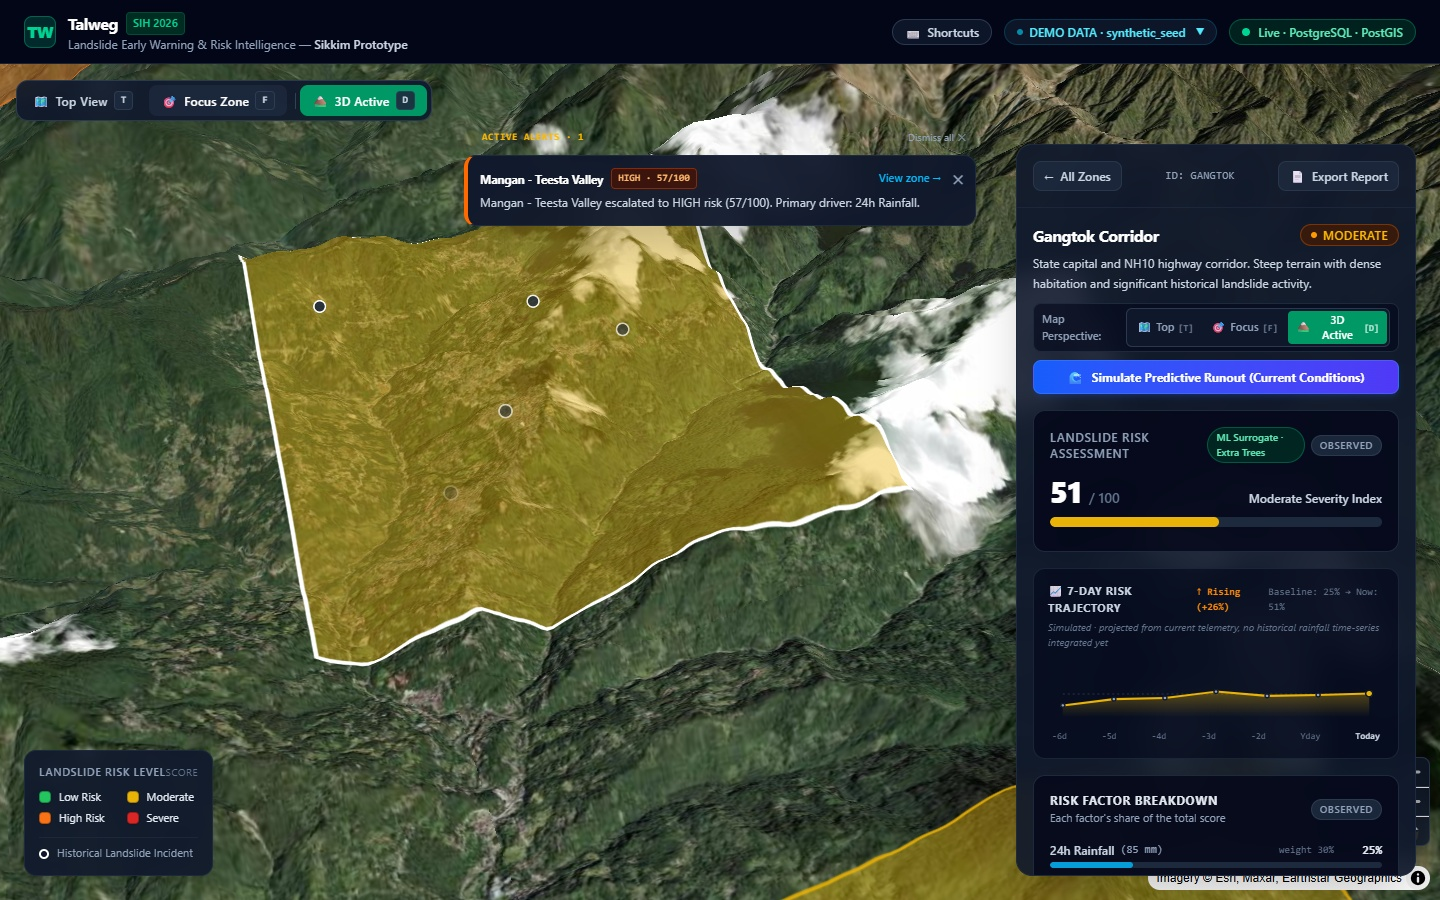
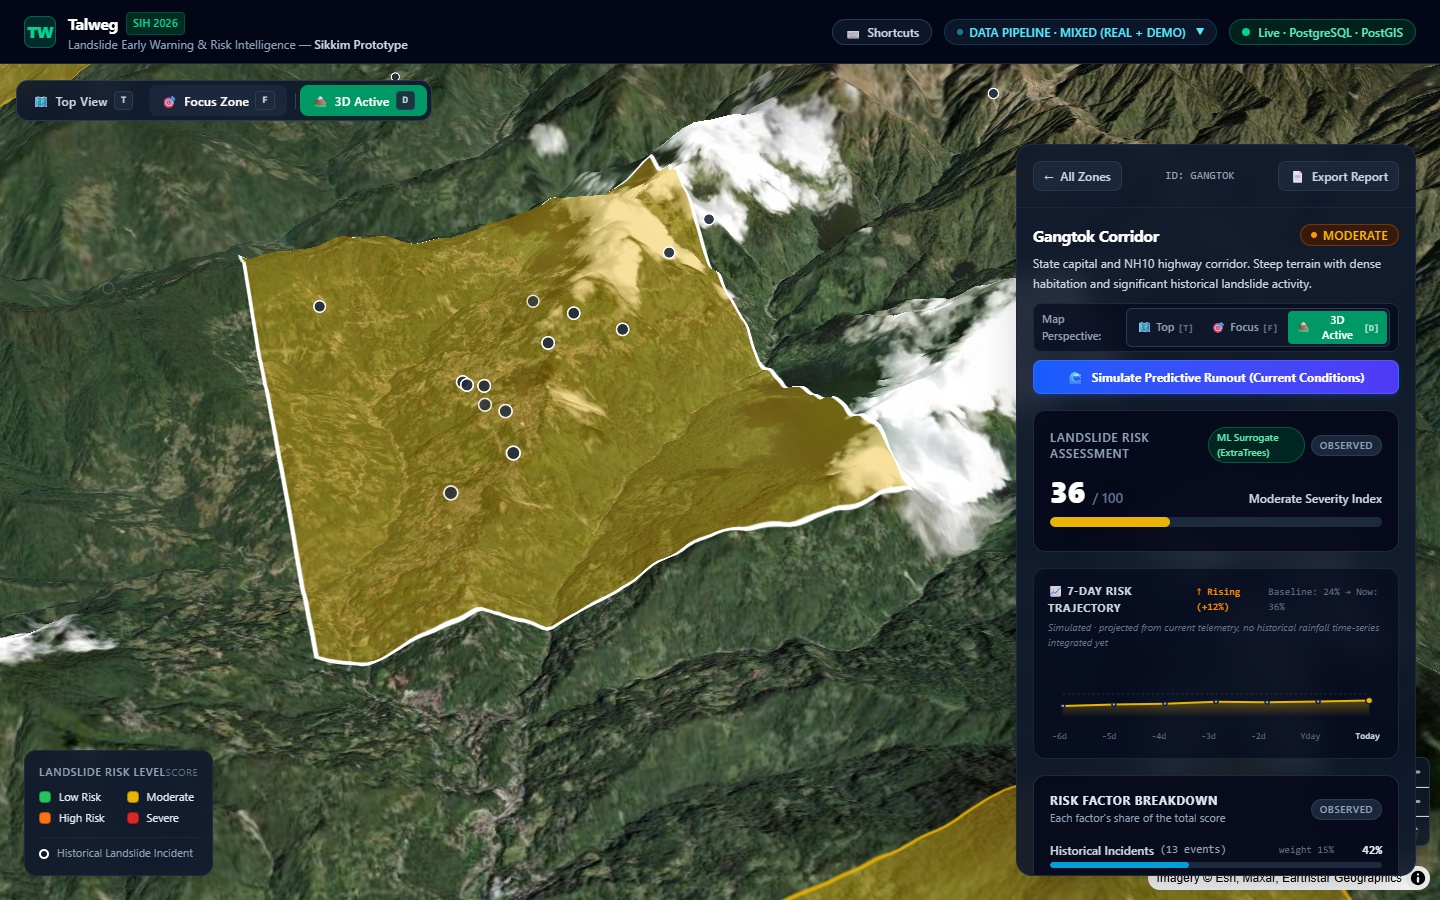
docs: update README screenshots reflecting real CHIRPS telemetry and verified event replay

diff --git a/README.md b/README.md
@@ -45,13 +45,13 @@ SIH26001 — Prototype decision-support system for landslide risk assessment in 
 
 ### 5. Explainable Risk Assessment & Factor Breakdown
 ![TALWEG Zone Telemetry & Explainability](docs/screenshots/05_zone_telemetry_explainability.jpg)
-*Transparent factor attribution breakdown (Rainfall, Soil Saturation, DEM Slope, Historical Density), 7-day risk trajectories, and dual-engine validation (Deterministic baseline vs. Extra Trees ML surrogate).*
+*Transparent factor attribution breakdown (Real CHIRPS Satellite Rainfall, Antecedent Soil Saturation, DEM Slope, Historical Density), 7-day risk trajectories, and dual-engine validation (Deterministic baseline vs. Extra Trees ML surrogate).*
 
 ---
 
 ### 6. Historical Reconstruction & Retrospective Replay
 ![TALWEG Historical Event Replay](docs/screenshots/06_historical_event_replay.png)
-*Retrospective evaluation of documented historical landslide events against the risk engine, featuring provenance-tagged input vectors (REAL / DERIVED / SYNTHETIC), escalation timelines, and decision verification ("WOULD HAVE FLAGGED: YES").*
+*Retrospective evaluation of documented historical landslide events against the risk engine, featuring provenance-tagged input vectors (REAL / DERIVED / SYNTHETIC), authentic ClimateSERV CHIRPS satellite observations, and decision verification ("WOULD HAVE FLAGGED: YES").*
 
 ---
 
